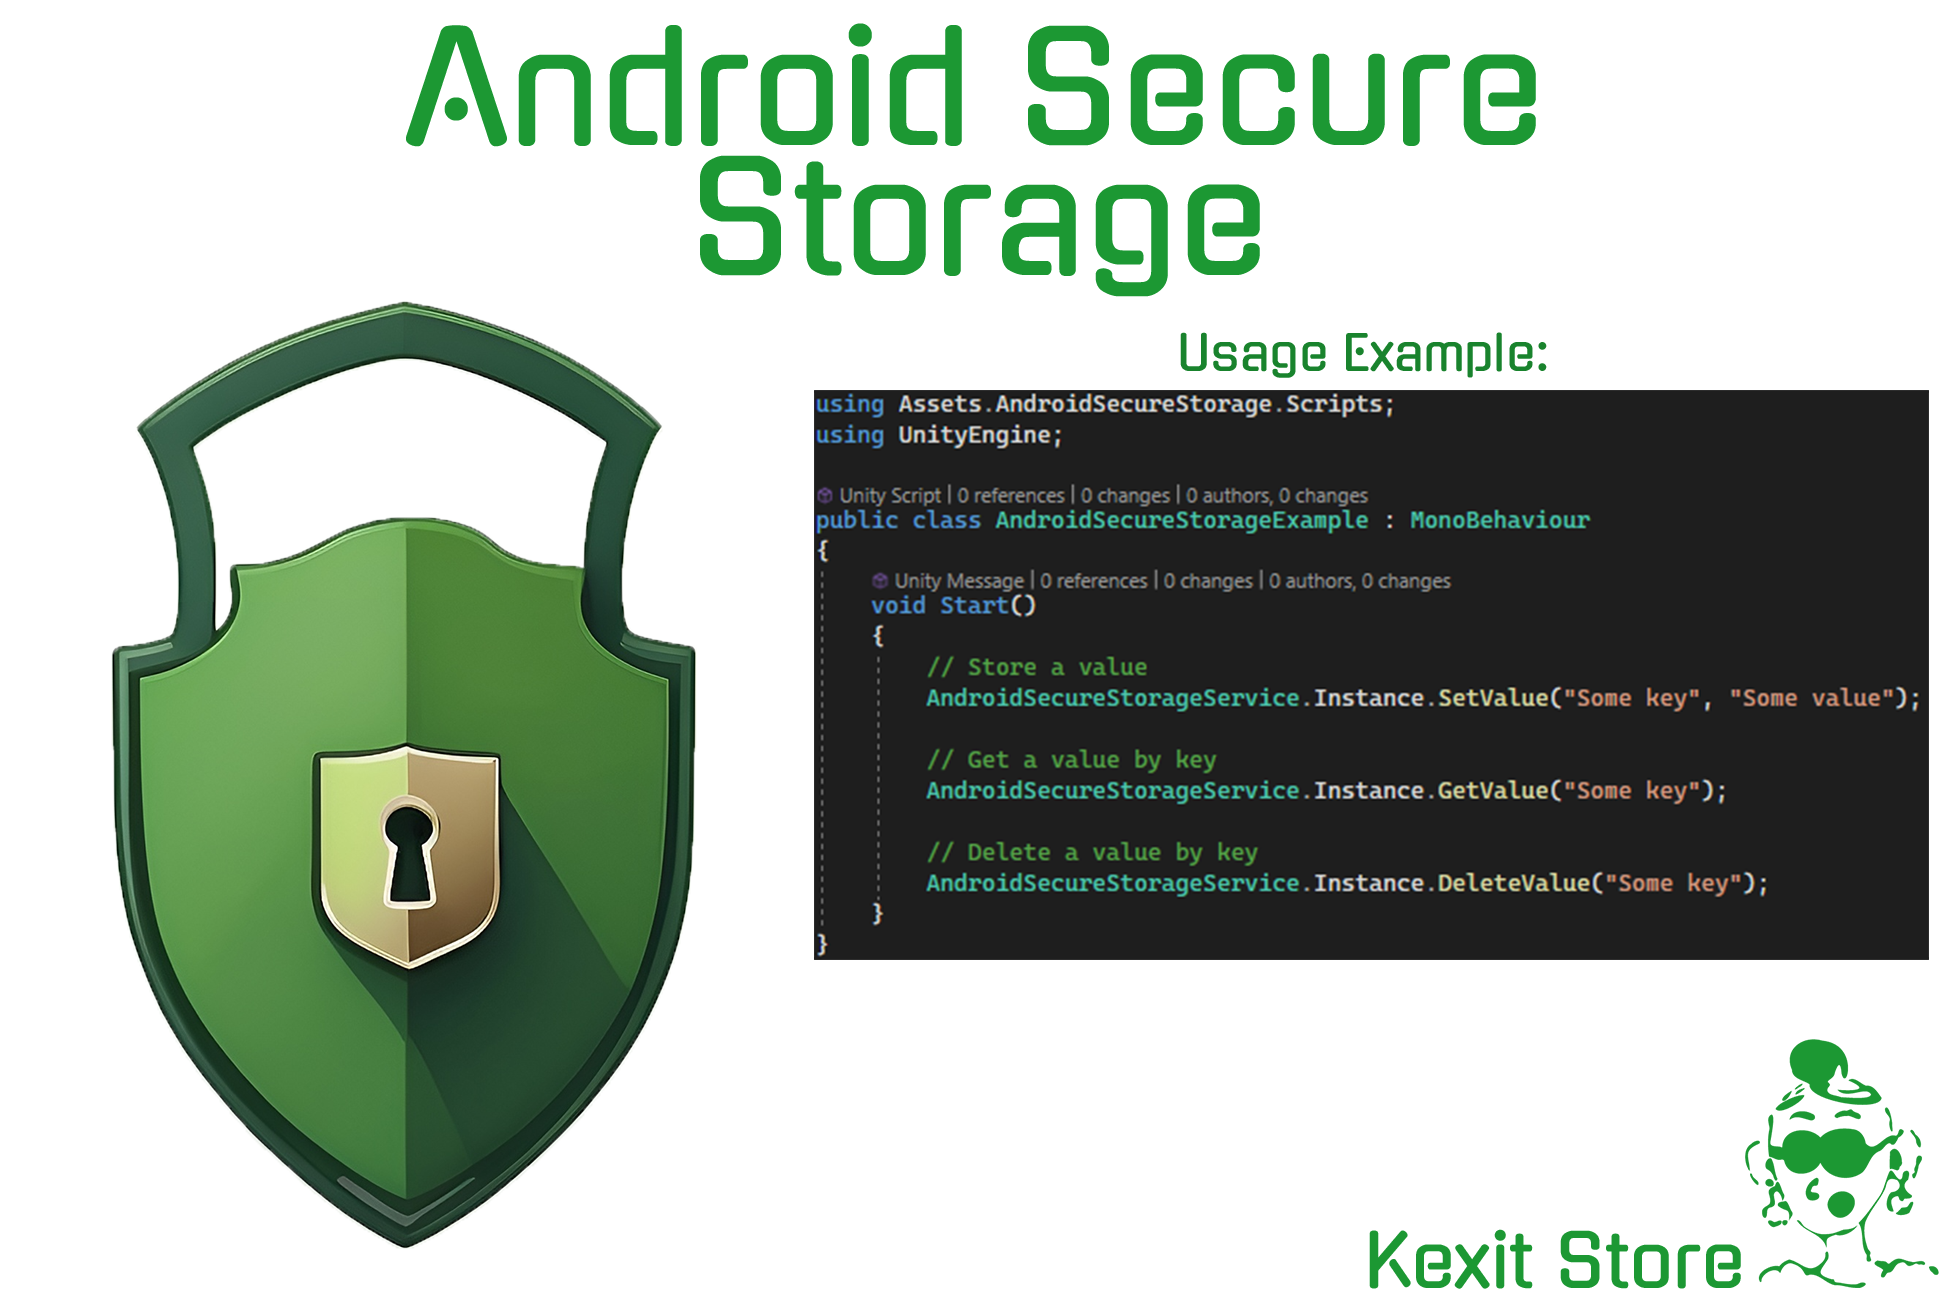
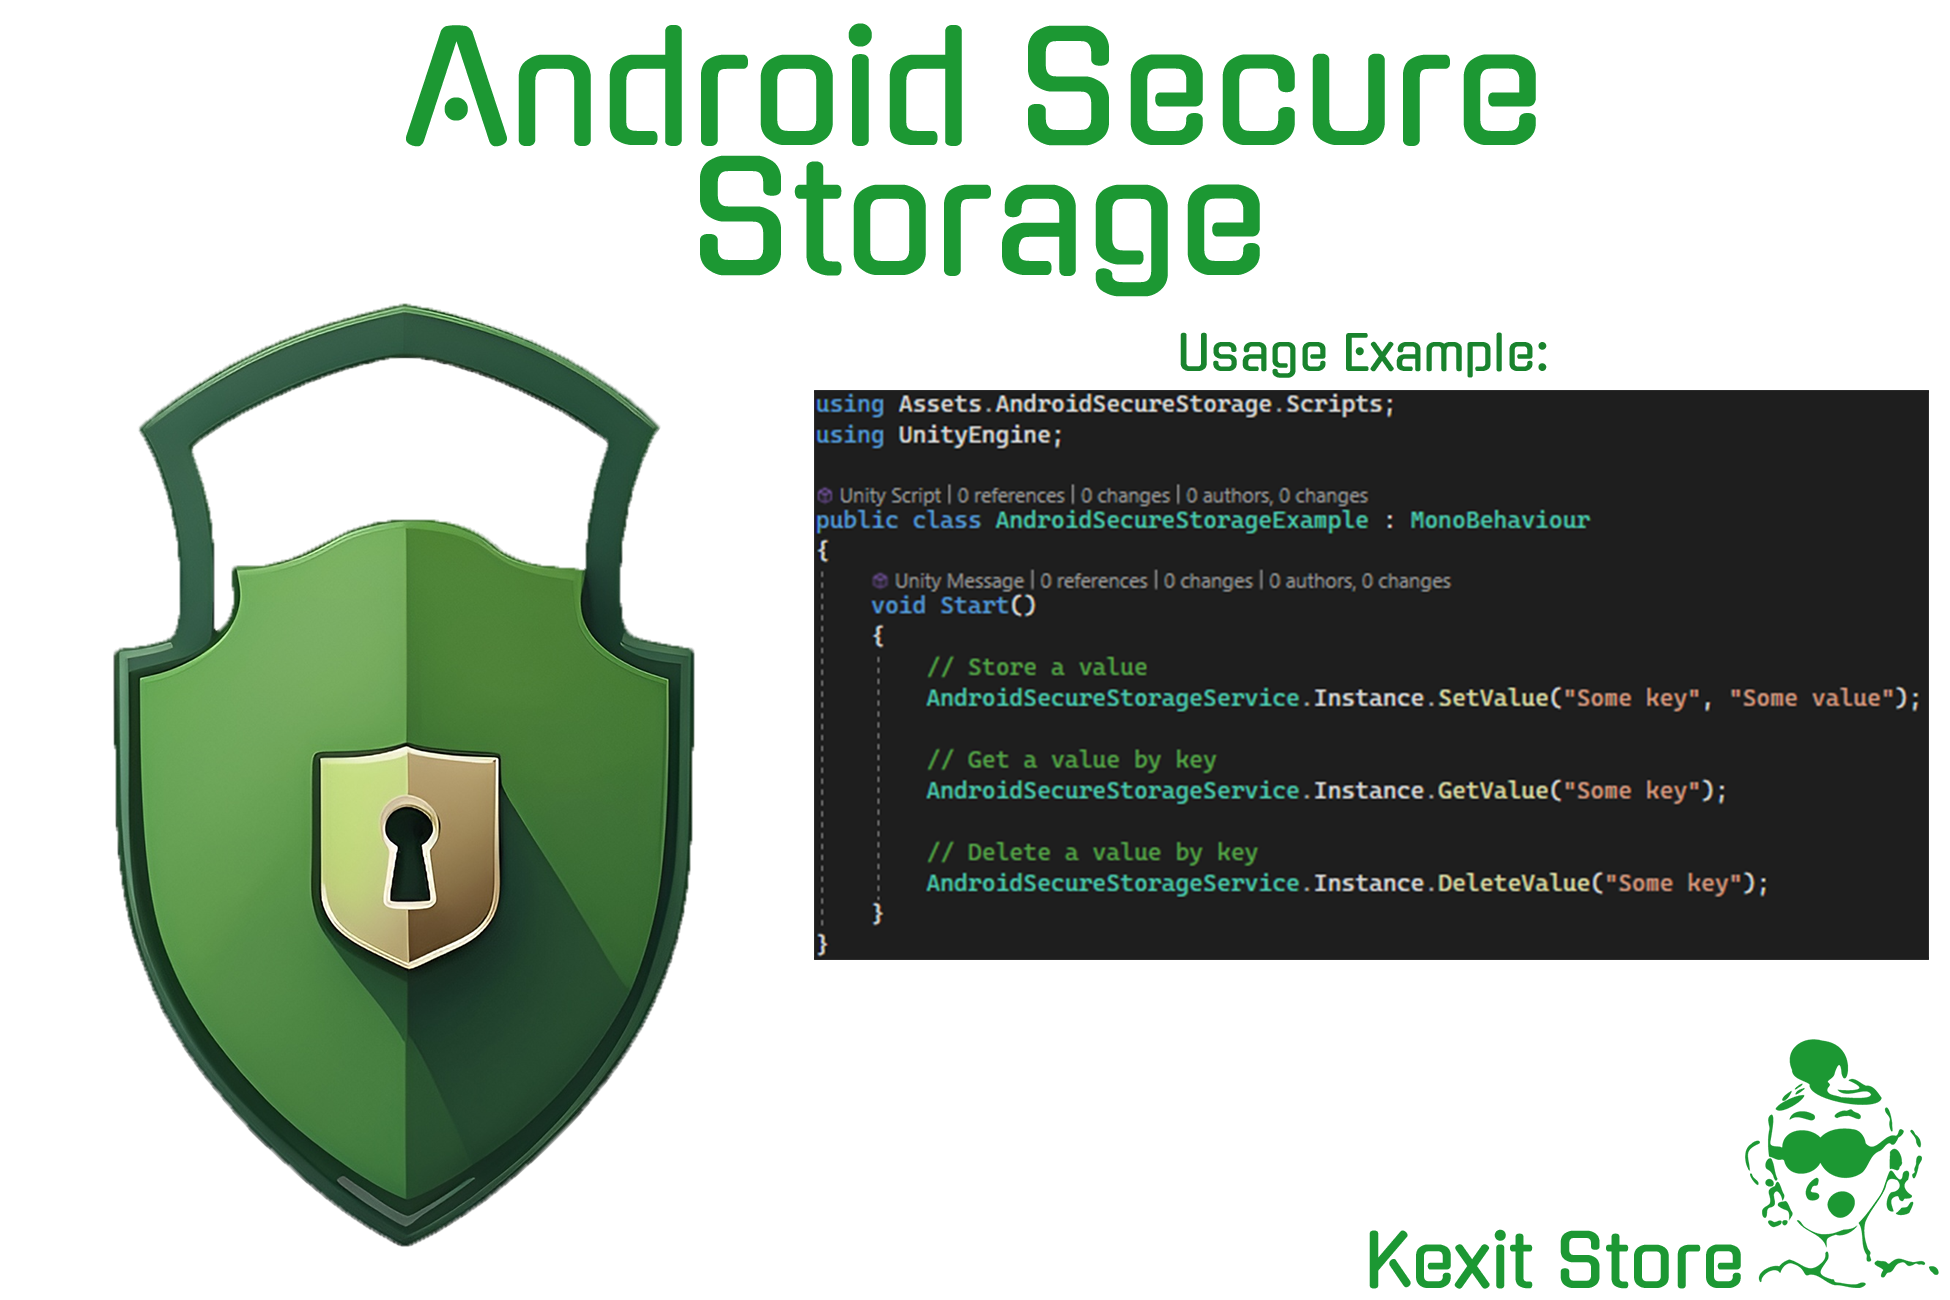
editImage and title

diff --git a/index.html b/index.html
@@ -18,8 +18,8 @@
         }
 
         .centered-image {
-            max-width: 80%;
-            height: auto;
+            max-width: 50%;
+            max-height: 50%;
         }
     </style>
 </head>
